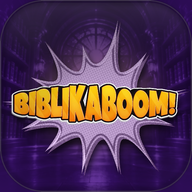
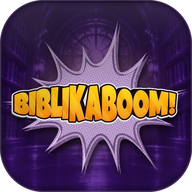
Ícone aprovado do app
Claude-Session: https://claude.ai/code/session_01Ms17SLvXb4neUwHLABs7xq

diff --git a/sw.js b/sw.js
@@ -1,4 +1,4 @@
-const V="bkb-1795524807";const ARQ=["./", "arte/av/01.webp", "arte/av/02.webp", "arte/av/03.webp", "arte/av/04.webp", "arte/av/05.webp", "arte/av/06.webp", "arte/av/07.webp", "arte/av/08.webp", "arte/av/09.webp", "arte/av/10.webp", "arte/av/11.webp", "arte/av/12.webp", "arte/av/13.webp", "arte/av/14.webp", "arte/av/15.webp", "arte/av/16.webp", "arte/circulo.webp", "arte/coringas.webp", "arte/curioso.webp", "arte/estante.webp", "arte/fast-palco.webp", "arte/fast.webp", "arte/fila.webp", "arte/gen-apo.webp", "arte/ic/duelo.webp", "arte/ic/fast.webp", "arte/ic/mega.webp", "arte/ic/origem.webp", "arte/ic/revelacao.webp", "arte/ic/supremo.webp", "arte/icone-app-1024.png", "arte/icone-app-180.png", "arte/icone-app-192.png", "arte/icone-app-512.png", "arte/infinito.webp", "arte/keyart-900.webp", "arte/keyart.webp", "arte/logo.webp", "arte/mao-apontando.webp", "arte/mao-cena.webp", "arte/mao-cena-900.webp", "arte/mao-segurando.webp", "arte/ntlh.webp", "arte/omdo.webp", "arte/omdo/01.webp", "arte/omdo/02.webp", "arte/omdo/03.webp", "arte/omdo/04.webp", "arte/omdo/05.webp", "arte/omdo/06.webp", "arte/omdo/07.webp", "arte/omdo/08.webp", "arte/omdo/09.webp", "arte/omdo/10.webp", "arte/pilha-frente.webp", "arte/pilha-verso.webp", "arte/posicao.webp", "arte/seta.webp", "arte/supremo-mesa.webp", "arte/supremo.webp", "arte/vencedor.webp", "cartas/01.webp", "cartas/02.webp", "cartas/03.webp", "cartas/04.webp", "cartas/05.webp", "cartas/06.webp", "cartas/07.webp", "cartas/08.webp", "cartas/09.webp", "cartas/10.webp", "cartas/11.webp", "cartas/12.webp", "cartas/13.webp", "cartas/14.webp", "cartas/15.webp", "cartas/16.webp", "cartas/17.webp", "cartas/18.webp", "cartas/19.webp", "cartas/20.webp", "cartas/21.webp", "cartas/22.webp", "cartas/23.webp", "cartas/24.webp", "cartas/25.webp", "cartas/26.webp", "cartas/27.webp", "cartas/28.webp", "cartas/29.webp", "cartas/30.webp", "cartas/31.webp", "cartas/32.webp", "cartas/33.webp", "cartas/34.webp", "cartas/35.webp", "cartas/36.webp", "cartas/37.webp", "cartas/38.webp", "cartas/39.webp", "cartas/40.webp", "cartas/41.webp", "cartas/42.webp", "cartas/43.webp", "cartas/44.webp", "cartas/45.webp", "cartas/46.webp", "cartas/47.webp", "cartas/48.webp", "cartas/49.webp", "cartas/50.webp", "cartas/51.webp", "cartas/52.webp", "cartas/53.webp", "cartas/54.webp", "cartas/55.webp", "cartas/56.webp", "cartas/57.webp", "cartas/58.webp", "cartas/59.webp", "cartas/60.webp", "cartas/61.webp", "cartas/62.webp", "cartas/63.webp", "cartas/64.webp", "cartas/65.webp", "cartas/66.webp", "index.html", "manifest.webmanifest", "verso.webp"];
+const V="bkb-1795525350";const ARQ=["./", "arte/av/01.webp", "arte/av/02.webp", "arte/av/03.webp", "arte/av/04.webp", "arte/av/05.webp", "arte/av/06.webp", "arte/av/07.webp", "arte/av/08.webp", "arte/av/09.webp", "arte/av/10.webp", "arte/av/11.webp", "arte/av/12.webp", "arte/av/13.webp", "arte/av/14.webp", "arte/av/15.webp", "arte/av/16.webp", "arte/circulo.webp", "arte/coringas.webp", "arte/curioso.webp", "arte/estante.webp", "arte/fast-palco.webp", "arte/fast.webp", "arte/fila.webp", "arte/gen-apo.webp", "arte/ic/duelo.webp", "arte/ic/fast.webp", "arte/ic/mega.webp", "arte/ic/origem.webp", "arte/ic/revelacao.webp", "arte/ic/supremo.webp", "arte/icone-app-1024.png", "arte/icone-app-180.png", "arte/icone-app-192.png", "arte/icone-app-512.png", "arte/infinito.webp", "arte/keyart-900.webp", "arte/keyart.webp", "arte/logo.webp", "arte/mao-apontando.webp", "arte/mao-cena.webp", "arte/mao-cena-900.webp", "arte/mao-segurando.webp", "arte/ntlh.webp", "arte/omdo.webp", "arte/omdo/01.webp", "arte/omdo/02.webp", "arte/omdo/03.webp", "arte/omdo/04.webp", "arte/omdo/05.webp", "arte/omdo/06.webp", "arte/omdo/07.webp", "arte/omdo/08.webp", "arte/omdo/09.webp", "arte/omdo/10.webp", "arte/pilha-frente.webp", "arte/pilha-verso.webp", "arte/posicao.webp", "arte/seta.webp", "arte/supremo-mesa.webp", "arte/supremo.webp", "arte/vencedor.webp", "cartas/01.webp", "cartas/02.webp", "cartas/03.webp", "cartas/04.webp", "cartas/05.webp", "cartas/06.webp", "cartas/07.webp", "cartas/08.webp", "cartas/09.webp", "cartas/10.webp", "cartas/11.webp", "cartas/12.webp", "cartas/13.webp", "cartas/14.webp", "cartas/15.webp", "cartas/16.webp", "cartas/17.webp", "cartas/18.webp", "cartas/19.webp", "cartas/20.webp", "cartas/21.webp", "cartas/22.webp", "cartas/23.webp", "cartas/24.webp", "cartas/25.webp", "cartas/26.webp", "cartas/27.webp", "cartas/28.webp", "cartas/29.webp", "cartas/30.webp", "cartas/31.webp", "cartas/32.webp", "cartas/33.webp", "cartas/34.webp", "cartas/35.webp", "cartas/36.webp", "cartas/37.webp", "cartas/38.webp", "cartas/39.webp", "cartas/40.webp", "cartas/41.webp", "cartas/42.webp", "cartas/43.webp", "cartas/44.webp", "cartas/45.webp", "cartas/46.webp", "cartas/47.webp", "cartas/48.webp", "cartas/49.webp", "cartas/50.webp", "cartas/51.webp", "cartas/52.webp", "cartas/53.webp", "cartas/54.webp", "cartas/55.webp", "cartas/56.webp", "cartas/57.webp", "cartas/58.webp", "cartas/59.webp", "cartas/60.webp", "cartas/61.webp", "cartas/62.webp", "cartas/63.webp", "cartas/64.webp", "cartas/65.webp", "cartas/66.webp", "index.html", "manifest.webmanifest", "verso.webp"];
 self.addEventListener("install",e=>{e.waitUntil(caches.open(V).then(c=>c.addAll(ARQ)).then(()=>self.skipWaiting()))});
 self.addEventListener("activate",e=>{e.waitUntil(caches.keys().then(ks=>Promise.all(ks.filter(k=>k!==V).map(k=>caches.delete(k)))).then(()=>self.clients.claim()))});
 self.addEventListener("fetch",e=>{if(e.request.method!=="GET")return;

diff --git a/index.html b/index.html
@@ -1,15 +1,15 @@
 <!doctype html>
 <html lang="pt-BR"><head><meta charset="utf-8">
 <meta name="viewport" content="width=device-width,initial-scale=1,viewport-fit=cover">
-<link rel="manifest" href="manifest.webmanifest">
+<link rel="manifest" href="manifest.webmanifest?v=2">
 <meta name="apple-mobile-web-app-capable" content="yes">
 <meta name="apple-mobile-web-app-status-bar-style" content="black-translucent">
 <meta name="description" content="Biblikaboom: o jogo de cartas da Bíblia do O Mundo de Otávio.">
 <style>:root{color-scheme:light;padding-top:env(safe-area-inset-top);padding-bottom:env(safe-area-inset-bottom)}body{margin:0;font:14px system-ui,sans-serif}img{max-width:100%}[hidden]{display:none!important}</style>
 </head><body>
 <title>Biblikaboom Duelo</title>
-<link rel="icon" type="image/png" href="arte/icone-app-192.png">
-<link rel="apple-touch-icon" href="arte/icone-app-180.png">
+<link rel="icon" type="image/png" href="arte/icone-app-192.png?v=2">
+<link rel="apple-touch-icon" href="arte/icone-app-180.png?v=2">
 <meta name="apple-mobile-web-app-title" content="Biblikaboom">
 <meta name="theme-color" content="#4b2577">
 <meta name="claude:viewport-fit-sides" content="cover">
